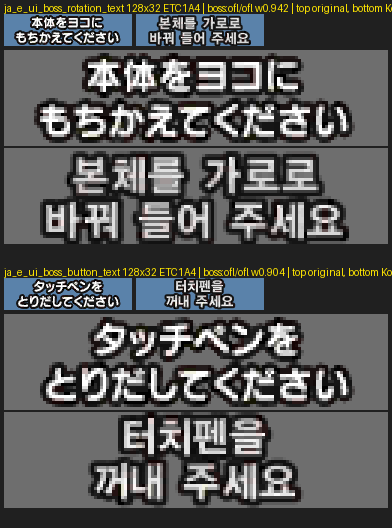
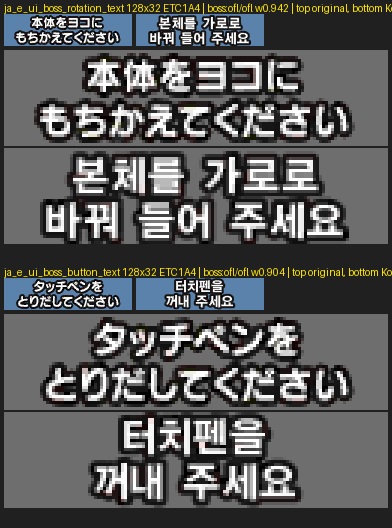
Giant battles: white faces for 쪼르미터 and the two boss notices
Fix round 2 for I6: the three small ETC1A4 textures looked soft and grey.
Their originals have 1-2 px strokes, so most face pixels are ETC-blended
with the outline and the measured face colour (row median) came out grey
with a pink cast; the stroke centres are white (95th percentile 242-255).
libhb_ko.WHITE_FACE keeps the measured outline, size and weight and draws
the face white: white share 0.18-0.21 of opaque pixels (originals
0.08-0.18), 95th percentile 255, neutral colour.

build_hb identity 23/23, selftest and build (20 textures, 25 copies, bad 0)
pass; only cyorometer, rotation and start archives change.

Claude-Session: https://claude.ai/code/session_01BUDh7Cspn5fHuqprKirqdu

diff --git a/scripts/libhb_ko.py b/scripts/libhb_ko.py
@@ -72,6 +72,11 @@ GROUPS = {
 }
 # per-texture render() arguments on top of the group source (documented in work/img/I6.md)
 EXTRA: dict[str, dict] = {}
+# Small ETC1A4 originals with 1-2 px strokes: most of their face pixels are ETC-blended with the
+# outline, so the measured face colour (median per row) comes out grey with a pink cast (172-244),
+# while their stroke centres are white (95th percentile 242-255). Lead review (fix round 2): 쪼르미터
+# and the two boss notices looked soft and grey. Their Korean face is drawn plain white.
+WHITE_FACE = {"s_ui_cyorometer_distance", "ja_e_ui_boss_rotation_text", "ja_e_ui_boss_button_text"}
 
 
 def items() -> dict:
@@ -110,6 +115,10 @@ def draw(it: dict, source: str, extra: dict | None = None) -> tuple[np.ndarray, 
     kw = dict(extra or {})
     if source != "auto":
         kw["source"] = source
+    if it["name"] in WHITE_FACE:
+        st = T.measure_style(jp)
+        st.face_stops = [(0.0, (1.0, 1.0, 1.0)), (1.0, (1.0, 1.0, 1.0))]
+        kw["style"] = st
     t0 = time.time()
     raw, rep = T.redraw(jp, it["ko"], fmt=None, jp_text=it["jp"], **kw)
     ko = T.finalize(raw, it["fmt"])

diff --git a/work/img/I6.md b/work/img/I6.md
@@ -2,6 +2,15 @@
 
 ## 상태: 2차 완료 (imgtext 1.3, 2026-09-30) — 빌드 `work/build/hb_stage/romfs/HB/`, 리드 검증 대기
 
+## 수정 2라운드 (2026-09-30 클라우드) — 작은 글자 3장 선명하게
+- 리드: 쪼르미터(64×16)와 보스 안내 2장이 흐리고 회색으로 보인다. 흰 픽셀 비율 KO 0.00 / 0.08 / 0.14 vs JP 0.10 / 0.21 / 0.20, 가장 밝은 채움(95분위) 204 / 225 / 233 vs 242 / 255 / 255. 쪼르미터 채움은 분홍빛.
+- 원인: 원본 획이 1~2px라 채움 픽셀 대부분이 ETC 압축으로 테두리와 섞여 있다. 그래서 줄별 채움색(중앙값)을 재면 회색에 분홍빛(172~244)이 나오고, 한국어를 그 색으로 그렸다. 원본 획 가운데는 흰색이다(95분위 242~255).
+- 수정(`libhb_ko.py` `WHITE_FACE`): 이 3장은 원본에서 잰 꾸밈(테두리·크기·획)은 그대로 두고 채움만 흰색으로 그린다. 출처(ofl)·굵기(0.98 / 0.94 / 0.90)는 전과 같다.
+- 결과(내 측정, 불투명 픽셀 중 흰색 비율 / 95분위 / 채움 평균): 쪼르미터 0.18 / 255 / (215,214,214), 원본 0.08 / 242 / (197,196,196).
+  보스 가로 0.21 / 255 / (220,219,219), 원본 0.18 / 255 / (216,215,214). 보스 터치펜 0.21 / 255 / (220,219,219), 원본 0.16 / 255 / (215,214,214). 분홍빛 없음.
+- verdict 「채움색 차」 0.14~0.19는 원본 쪽 측정값(ETC로 회색이 된 중앙값)과 비교한 값이라 남는다.
+- 검사: identity PASS 23/23, selftest PASS, build 20장 → 25사본 bad 0. 바뀐 arc는 cyorometer·rotation·start 3개. 대조표 I6_04·I6_05(스테이지에서 되읽음) 확인.
+
 ## 형식
 - `*.z` = Nintendo CX **LH (LZH8, 0x40)**: LZ77 + 허프만 2개(9비트 글자/길이, 5비트 거리 비트수), 바이트 스트림 MSB 먼저.
   트리 표 크기 = (n+1)*4(크기 필드 포함). 로더가 마지막 항목에서 1바이트 더 읽어도 다음 구역은 선언 크기에서 시작(HB/life2).
